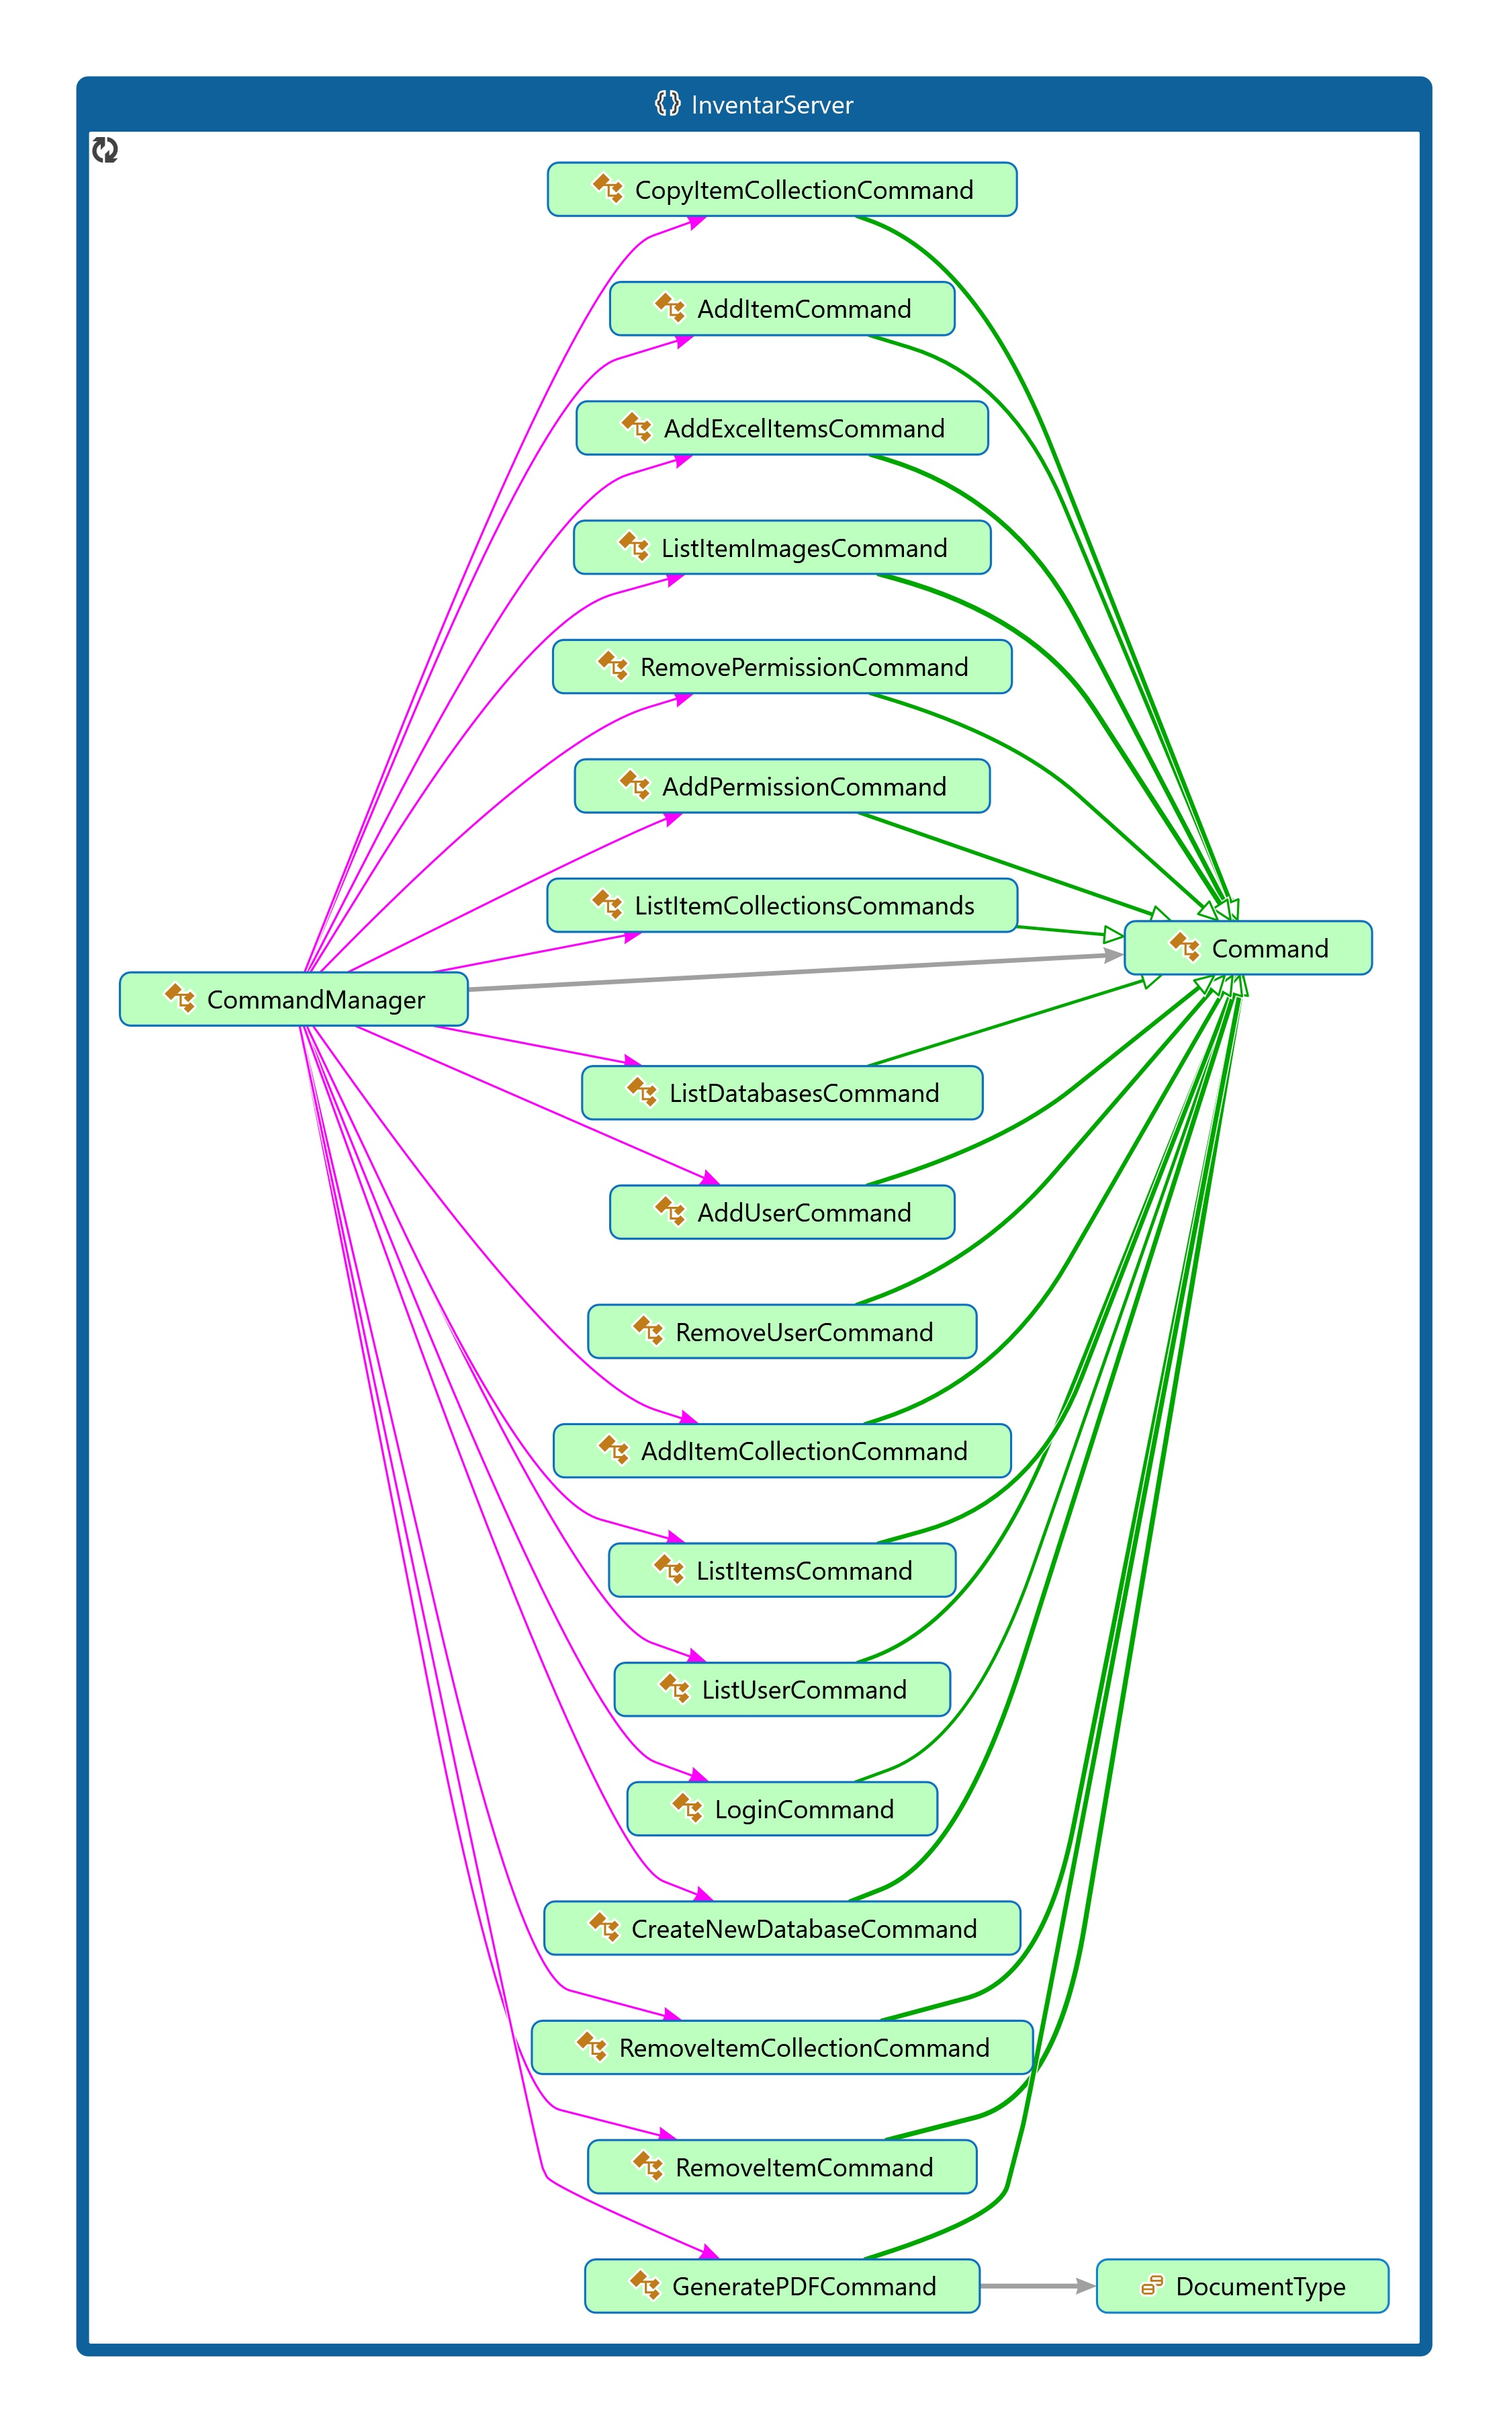
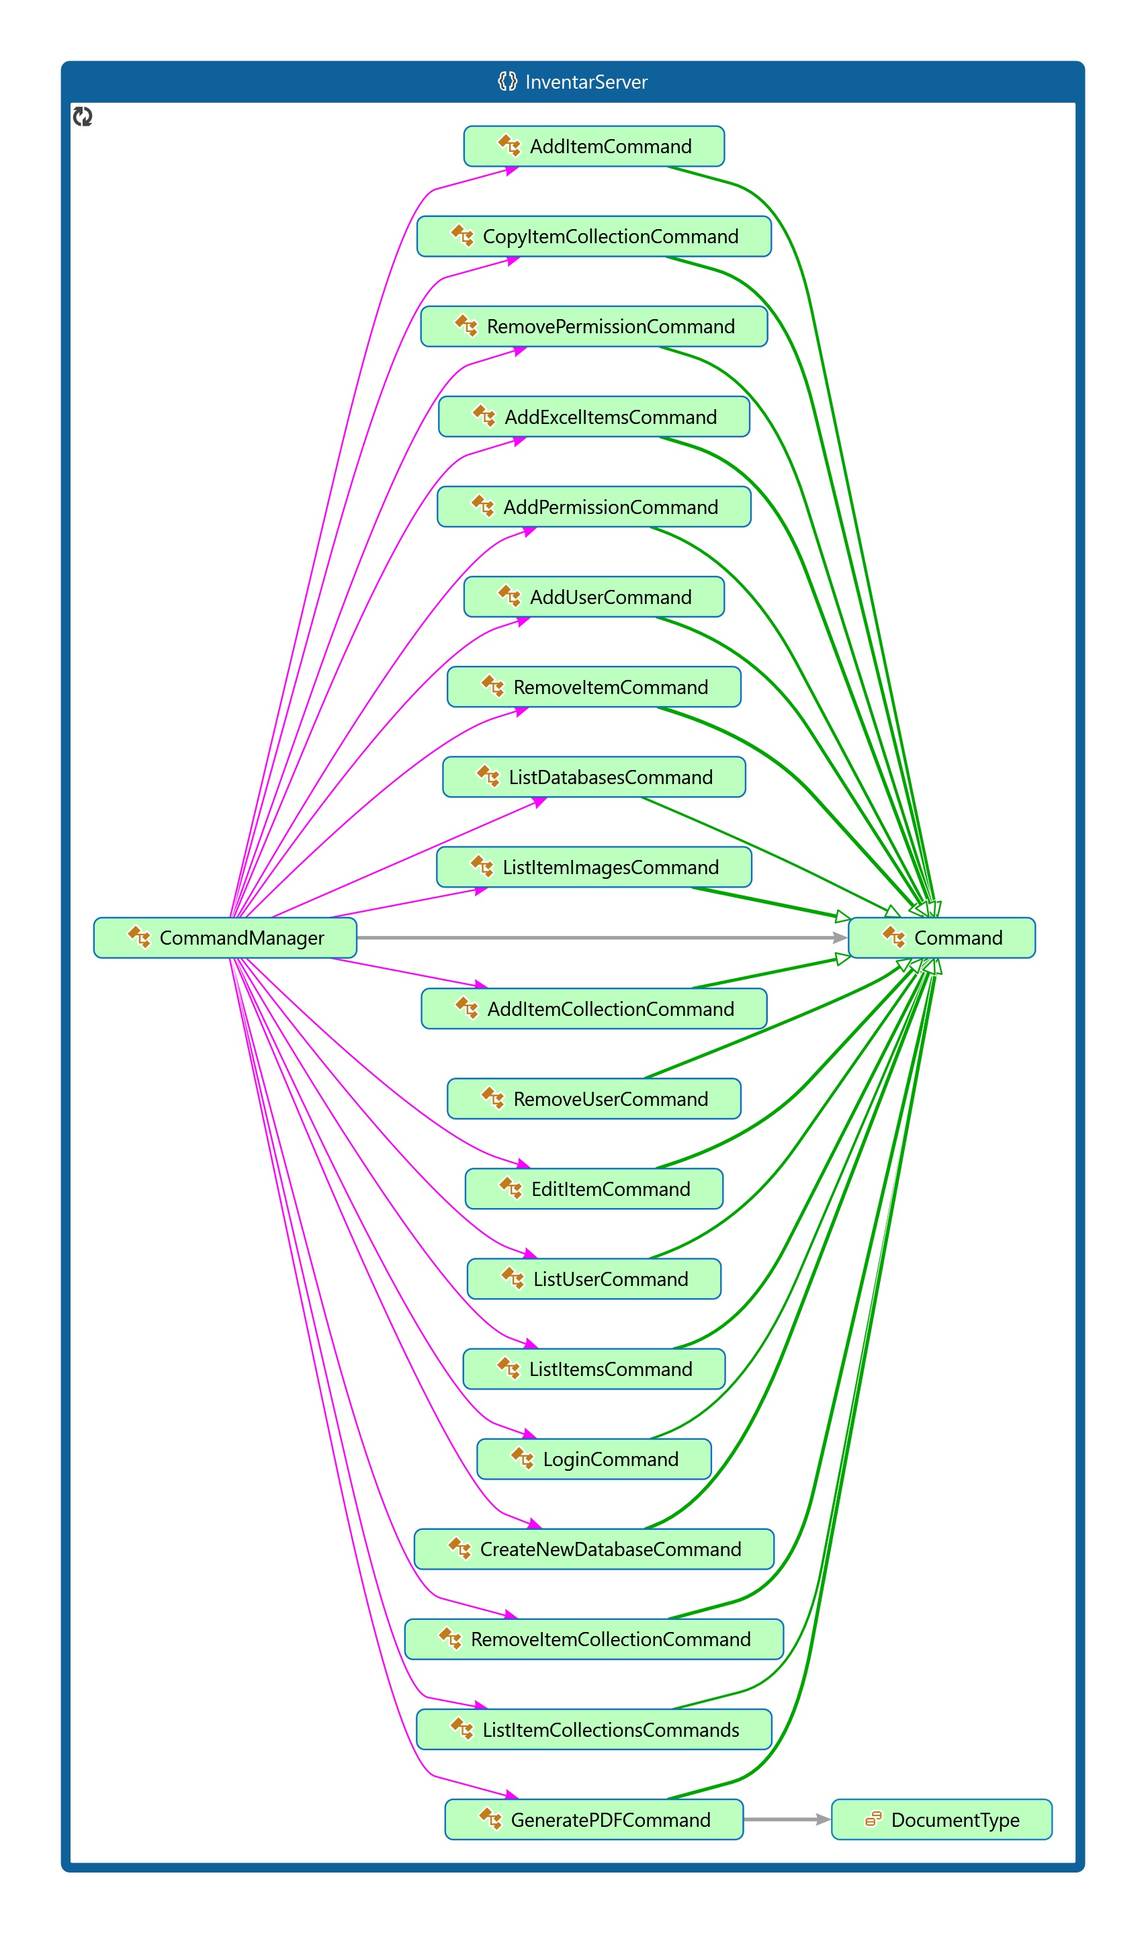
Added EditItemCommand, bugfixes and updated Code-maps

Changed region(s): [[0.0311, 0.0309, 0.9631, 0.9899]]

diff --git a/InventarServer/InventarServer/Server/Commands/EditItemCommand.cs b/InventarServer/InventarServer/Server/Commands/EditItemCommand.cs
@@ -1,0 +1,35 @@
+using System;
+using System.Collections.Generic;
+using System.Text.Json;
+
+namespace InventarServer
+{
+    class EditItemCommand : Command
+    {
+        public EditItemCommand() : base("EditItem")
+        { }
+
+        public override void Execute(User _u, StreamHelper _helper, Client _c)
+        {
+            if (!HasItemAddPermission(_u, _helper))
+                return;
+
+            string json = _helper.ReadString();
+            Item newItem = JsonSerializer.Deserialize<Item>(json);
+
+            ItemCollection itemCollection = _u.Database.GetItemCollection(newItem.ItemCollectionName);
+
+            if (!SendPermissionMessage(_u, _helper, itemCollection.GetPermission()))
+                return;
+
+            Item oldItem = itemCollection.GetItem(_u, newItem.ID);
+            newItem.Bilder = oldItem.Bilder;
+
+            itemCollection.RemoveItem(oldItem.ItemCollectionName, oldItem.ID, _u);
+            itemCollection.AddItem(newItem);
+
+            SendOKMessage(_helper);
+        }
+
+    }
+}

diff --git a/InventarServer/InventarServer/Server/Database/Database.cs b/InventarServer/InventarServer/Server/Database/Database.cs
@@ -24,6 +24,8 @@ namespace InventarServer
         public LoginError Login(User _u)
         {
             Collection userCollection = GetCollection("users");
+            if (userCollection == null)
+                return LoginError.WRONG_USERNAME;
 
             BsonDocument foundUser = userCollection.FindOne("username", _u.Username);
             if (foundUser == null)

diff --git a/InventarServer/InventarServer/Server/Commands/Command.cs b/InventarServer/InventarServer/Server/Commands/Command.cs
@@ -38,6 +38,7 @@ namespace InventarServer
             Commands.Add(new ListItemImagesCommand());
             Commands.Add(new AddExcelItemsCommand());
             Commands.Add(new CopyItemCollectionCommand());
+            Commands.Add(new EditItemCommand());
             Commands.Add(new GeneratePDFCommand());
         }
     }
